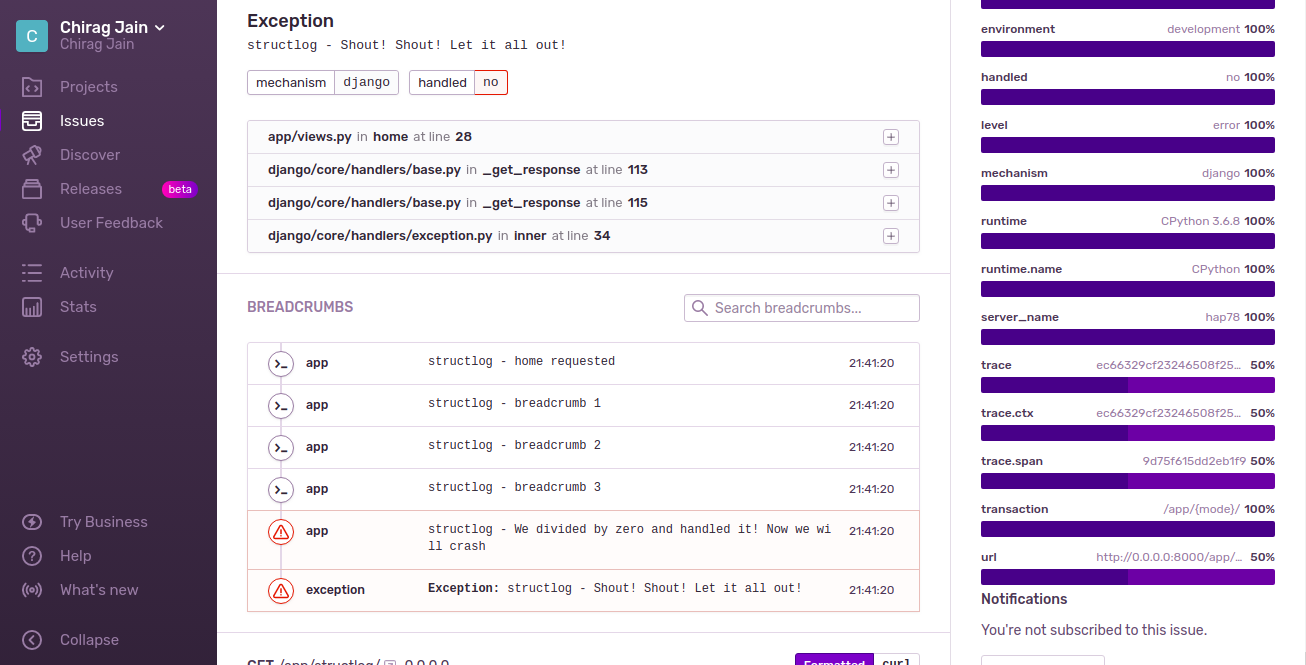
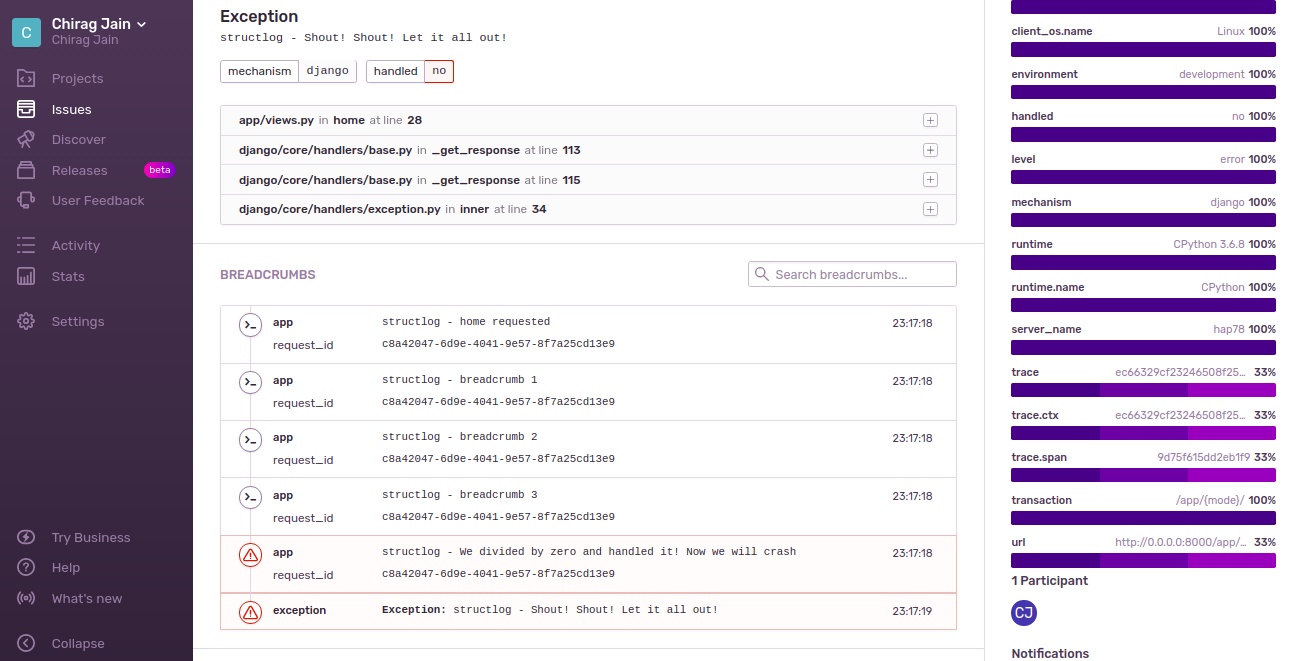
Allow copying custom keys from event_dict to LogRecord attributes

diff --git a/sentry_structlog_experiments/setup_logs.py b/sentry_structlog_experiments/setup_logs.py
@@ -1,6 +1,6 @@
 import logging.config
 import os
-from typing import Dict, Any, Tuple
+from typing import Dict, Any, Tuple, Set
 
 import structlog
 # Potentially dangerous, using library internals, no suitable alternatives for now
@@ -11,8 +11,14 @@ from .env_vars import PROJECT_ROOT, DJANGO_LOG_LEVEL
 
 
 class StructlogAwareMessageFormatter(logging.Formatter):
-    def __init__(self, copy_record: bool = True, **kwargs):
+    DEFAULT_ATTR_MAP: Tuple[Tuple[str, str, Any], ...] = (
+        ('event', 'msg', ''),
+    )
+
+    def __init__(self, copy_record: bool = True, attr_map: Tuple[Tuple[str, str, Any], ...] = DEFAULT_ATTR_MAP,
+                 **kwargs):
         self.copy_record = copy_record
+        self.attr_map = attr_map
         super().__init__(**kwargs)
 
     def format(self, record: logging.LogRecord) -> str:
@@ -20,7 +26,9 @@ class StructlogAwareMessageFormatter(logging.Formatter):
             record = logging.makeLogRecord(record.__dict__)
 
         if isinstance(record.msg, dict):
-            record.msg = record.msg.get('event', '')
+            update_attrs = {target_attr: record.msg.get(dict_key, default_value)
+                            for dict_key, target_attr, default_value in self.attr_map}
+            record.__dict__.update(update_attrs)
 
         return super().format(record=record)
 

diff --git a/sentry_structlog_experiments/setup_sentry.py b/sentry_structlog_experiments/setup_sentry.py
@@ -15,10 +15,12 @@ IGNORE_LOGGERS = [
 def configure():
     for logger in IGNORE_LOGGERS:
         ignore_logger(logger)
+
     logging_integration = LoggingIntegration()
+    attr_map = StructlogAwareMessageFormatter.DEFAULT_ATTR_MAP + (('request_id', 'request_id', None),)
     for attr_name, attr_value in vars(logging_integration).items():
         if isinstance(attr_value, logging.Handler):
-            attr_value.setFormatter(StructlogAwareMessageFormatter(copy_record=False))
+            attr_value.setFormatter(StructlogAwareMessageFormatter(copy_record=False, attr_map=attr_map))
 
     sentry_sdk.init(
         dsn=SENTRY_DSN,

diff --git a/README.md b/README.md
@@ -1,9 +1,17 @@
-Just some experiments with a minimal Django app for running [sentry](https://sentry.io/) along with [structlog](structlog.org) json logging setup
+A minimal Django app for running [sentry](https://sentry.io/) along with [structlog](structlog.org) json logging setup
 
-JSON structured messages make sentry issues and breadcrumbs hard to read, but are great for parsing and aggregating in ELK stack. 
+![](./screens/structlog_sentry_trace.png) 
+
+JSON structured messages make Sentry issues and breadcrumbs hard to read, but are great for parsing and aggregating in ELK stack. 
 We do some hacking around with structlog and sentry internals to make them work together nicely
 
-Other related projects:
+- [x] Send plain text string log events instead of json/dict events to Sentry  
+- [x] Send plain text string breadcrumb events instead of json/dict events to Sentry
+- [x] Save traceback to `LogRecord.exc_info` when using structlog so Sentry can extract it
+- [x] Allow copying custom keys from event_dict to LogRecord attributes so Sentry can put it as extra (E.g. see `request_id` in the above screenshot)
+- [ ] Get `'_meta'` key in Sentry event json when using structlog  
+
+Other related projects that attempt to solve this problem:
 
 - [structlog-sentry](https://github.com/kiwicom/structlog-sentry)
 
@@ -44,9 +52,3 @@ Needs Python 3.6+
     - http://0.0.0.0:8000/app/stdlib
 
 7. Go explore the code.
-
----
-
-If all setup is correct, you can get the same stack frames and breadcrumbs from structlog as from logging
-
-![](./screens/structlog_sentry_trace.png) 
